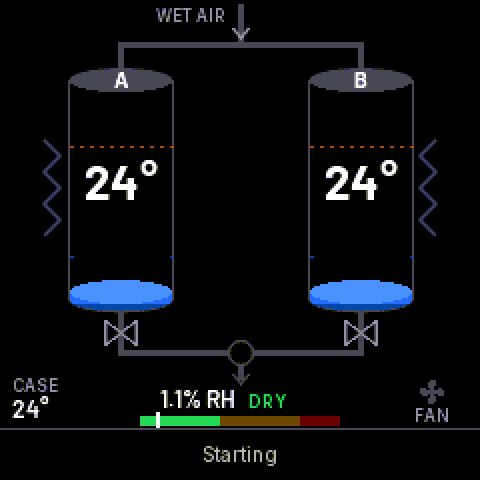
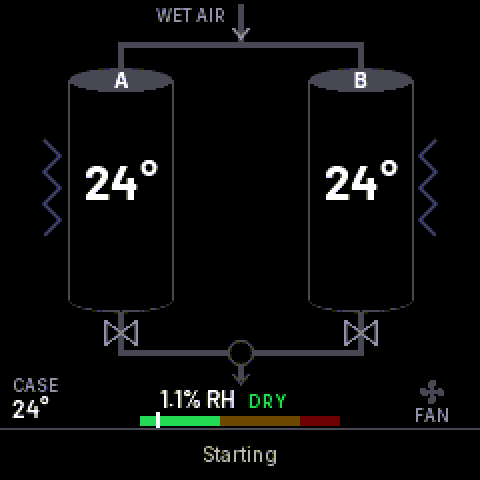
Colour the display cylinders by pack state
Each cylinder body is one solid colour for its state: IN USE green,
WET pink, HEATING orange, COOLING cyan, READY blue, FAULT red; unfilled
when off or starting. Removes the temperature fill, threshold dashes,
cap sprites and fault ring, and the three thresholds only they read.
Scenario captures regenerated.

Changed region(s): [[0.625, 0.5625, 0.875, 0.6562], [0.125, 0.5625, 0.375, 0.6562]]

diff --git a/esphome/packages/display_ui.h b/esphome/packages/display_ui.h
@@ -4,7 +4,8 @@
 // of the host build (packages/display-sdl.yaml) and the scenario captures
 // (packages/display-scenarios.yaml). The ui_draw script in
 // packages/display-draw.yaml gathers the state. Geometry and rules follow
-// docs/superpowers/specs/2026-09-14-display-ui-design.md sections 2, 4, 5.
+// docs/superpowers/specs/2026-09-14-display-ui-design.md sections 2, 4, 5,
+// with the cylinder colours of 2026-09-14-cylinder-state-colours-design.md.
 #include <cmath>
 #include <cstdint>
 #include <cstdio>
@@ -27,7 +28,7 @@ struct UiState {
   bool enabled = true, sim = false, fan = false;
   bool heater_a = false, heater_b = false, valve_a = false, valve_b = false;
   float t_a = NAN, t_b = NAN, t_case = NAN, rh = NAN;
-  float arm_rh = 5, swap_rh = 10, cooldown = 40, regen = 90, overtemp = 120;
+  float arm_rh = 5, swap_rh = 10;
   float service_s = 0, standby_s = 0;
   std::string status, fault_msg, ip;
   uint32_t uptime_ms = 0;
@@ -36,8 +37,7 @@ struct UiState {
 // Aggregate-initialised by the ui_draw script; keep the member order in step.
 struct UiAssets {
   BaseFont *f_temp, *f_val, *f_cap, *f_label, *f_phase, *f_status, *f_status_b;
-  BaseImage *bg, *valve_open, *valve_closed, *heater_on_a, *heater_on_b, *lit_a, *lit_b, *fault_ring,
-      *cap_blue, *cap_amber, *cap_gold, *fan;
+  BaseImage *bg, *valve_open, *valve_closed, *heater_on_a, *heater_on_b, *lit_a, *lit_b, *fan;
 };
 
 // The most recently gathered state and asset table. The ui_draw script fills
@@ -60,11 +60,11 @@ inline uint32_t uptime_since_first_frame(uint32_t now) {
   return now - first;
 }
 
-// RGB 3-3-2 grid colours (spec section 5).
+// RGB 3-3-2 grid colours (display UI spec section 5; cylinder colours spec
+// section 1).
 static const Color BLACK(0, 0, 0), WHITE(255, 255, 255);
-static const Color GREEN(36, 219, 85), ORANGE(255, 146, 0), AMBER(255, 182, 0), ORANGE_MID(255, 109, 0);
-static const Color DEEP(219, 73, 0), DARKOR(182, 73, 0), CYAN(0, 219, 255);
-static const Color BLUE(36, 109, 255), BLUE_L(73, 146, 255), BLUE_D(0, 73, 170);
+static const Color GREEN(36, 219, 85), ORANGE(255, 146, 0), AMBER(255, 182, 0), CYAN(0, 219, 255);
+static const Color BLUE(36, 109, 255), PINK(255, 146, 170);
 static const Color SHELL(73, 73, 85), DIM(146, 146, 170), STRIP_TXT(182, 182, 170);
 static const Color RED_STRIP(219, 36, 36), RED(255, 36, 36);
 static const Color DRY_DIM(36, 109, 36), AMBER_DIM(109, 73, 0), RED_DIM(109, 0, 0);
@@ -78,10 +78,10 @@ struct PackView {
   int cx = 0;
   float t = NAN;
   const char *phase = "";
-  Color phase_color = DIM;
+  Color phase_color = DIM;  // also the body colour when filled
+  bool filled = false;      // body painted in phase_color; false when off or starting
   bool show_timer = false;
   float timer_s = 0;
-  bool faulted = false;
 };
 
 inline std::string fmt_timer(float seconds) {
@@ -104,22 +104,9 @@ inline void rounded_rect(Display &it, int x, int y, int w, int h, int r, Color c
   it.filled_circle(x + w - 1 - r, y + h - 1 - r, r, c);
 }
 
-// 2 px on, 3 px off, from x0 to x1 exclusive.
-inline void dashes(Display &it, int x0, int x1, int y, Color c) {
-  for (int x = x0; x < x1; x += 5) it.horizontal_line(x, y, 2, c);
-}
-
-// Row of the fill's top edge: 20 C .. overtemp maps onto the 110 px body.
-inline int level_y(float t, float overtemp) {
-  float f = (t - 20.0f) / (overtemp - 20.0f);
-  if (f < 0) f = 0;
-  if (f > 1) f = 1;
-  return 150 - (int) lroundf(f * 110.0f);
-}
-
 inline void pack_roles(const UiState &s, PackView &a, PackView &b) {
   static const char *const SB_NAMES[] = {"WET", "HEATING", "COOLING", "READY"};
-  static const Color SB_COLORS[] = {DIM, ORANGE, CYAN, BLUE};
+  static const Color SB_COLORS[] = {PINK, ORANGE, CYAN, BLUE};
   a = PackView{};
   b = PackView{};
   a.cx = CX_A;
@@ -133,63 +120,34 @@ inline void pack_roles(const UiState &s, PackView &a, PackView &b) {
   if (s.active != 1 && s.active != 2) return;  // starting: no roles yet
   PackView &act = s.active == 1 ? a : b;
   PackView &sb = s.active == 1 ? b : a;
-  act.phase = "IN SERVICE";
+  act.phase = "IN USE";
   act.phase_color = GREEN;
+  act.filled = true;
   act.show_timer = true;
   act.timer_s = s.service_s;
   int st = s.standby_state;
   if (st < 0 || st > 3) st = 0;
   sb.phase = SB_NAMES[st];
   sb.phase_color = SB_COLORS[st];
+  sb.filled = true;
   sb.show_timer = true;
   sb.timer_s = s.standby_s;
   PackView *faulted = s.fault_code == 1 ? &act : (s.fault_code == 2 || s.fault_code == 3) ? &sb : nullptr;
   if (faulted != nullptr) {
     faulted->phase = "FAULT";
     faulted->phase_color = RED;
-    faulted->faulted = true;
   }
 }
 
-// Stacked colour bands from the level down to row 156, then the cap sprite
-// on the level. Drawn before the background, whose opaque corners mask the
-// bands outside the bottom cap curve. Blue family at or below cooldown,
-// orange above, with an amber top band and gold cap at or above regen.
-inline void draw_fill(Display &it, const UiAssets &a, const UiState &s, const PackView &p) {
-  if (std::isnan(p.t)) return;
-  const int x0 = p.cx - 25;
-  const int top = level_y(p.t, s.overtemp);
-  Color bands[4];
-  int n = 0;
-  BaseImage *cap;
-  if (p.t <= s.cooldown) {
-    bands[n++] = BLUE;
-    bands[n++] = BLUE_D;
-    cap = a.cap_blue;
-  } else {
-    if (p.t >= s.regen) bands[n++] = AMBER;
-    bands[n++] = ORANGE;
-    bands[n++] = ORANGE_MID;
-    bands[n++] = DEEP;
-    cap = p.t >= s.regen ? a.cap_gold : a.cap_amber;
-  }
-  int h = (156 - top) / n;
-  if (h < 6) h = 6;
-  int y = top;
-  for (int i = 0; i < n; i++) {
-    const int hh = (i == n - 1) ? 156 - y : h;
-    if (hh > 0) it.filled_rectangle(x0, y, 51, hh, bands[i]);
-    y += h;
-  }
-  it.image(x0, top - 6, cap);
+// The body in its state colour: one rectangle over the cylinder interior,
+// drawn before the background, which keeps its grey top cap over row 40 and
+// masks everything outside the bottom cap curve down to row 156.
+inline void draw_fill(Display &it, const PackView &p) {
+  if (p.filled) it.filled_rectangle(p.cx - 25, 40, 51, 116, p.phase_color);
 }
 
-// Threshold dashes, the black plate, temperature, phase word and timer.
-inline void draw_pack_text(Display &it, const UiAssets &a, const UiState &s, const PackView &p) {
-  const int x0 = p.cx - 25, x1 = p.cx + 26;
-  dashes(it, x0, x1, level_y(s.regen, s.overtemp), DARKOR);
-  const bool cool = std::isnan(p.t) || p.t <= s.cooldown;
-  dashes(it, x0, x1, level_y(s.cooldown, s.overtemp), cool ? BLUE_D : BLUE_L);
+// The black plate, temperature, phase word and timer.
+inline void draw_pack_text(Display &it, const UiAssets &a, const PackView &p) {
   rounded_rect(it, p.cx - 23, 78, 47, 52, 4, BLACK);
   if (std::isnan(p.t))
     it.print(p.cx, 100, a.f_temp, DIM, TextAlign::BASELINE_CENTER, "--°");
@@ -279,8 +237,8 @@ inline void draw_ui(Display &it, const UiState &s, const UiAssets &a) {
   it.fill(BLACK);
   PackView pa, pb;
   pack_roles(s, pa, pb);
-  draw_fill(it, a, s, pa);
-  draw_fill(it, a, s, pb);
+  draw_fill(it, pa);
+  draw_fill(it, pb);
   it.image(0, 0, a.bg);
   // Symbols follow the real output switches, not the state machine.
   if (s.valve_a)
@@ -291,12 +249,10 @@ inline void draw_ui(Display &it, const UiState &s, const UiAssets &a) {
   it.image(CX_B - 9, 158, s.valve_b ? a.valve_open : a.valve_closed);
   if (s.heater_a) it.image(17, 65, a.heater_on_a);
   if (s.heater_b) it.image(207, 65, a.heater_on_b);
-  if (pa.faulted) it.image(CX_A - 28, 34, a.fault_ring);
-  if (pb.faulted) it.image(CX_B - 28, 34, a.fault_ring);
   it.print(CX_A, 44, a.f_cap, WHITE, TextAlign::BASELINE_CENTER, "A", SHELL);
   it.print(CX_B, 44, a.f_cap, WHITE, TextAlign::BASELINE_CENTER, "B", SHELL);
-  draw_pack_text(it, a, s, pa);
-  draw_pack_text(it, a, s, pb);
+  draw_pack_text(it, a, pa);
+  draw_pack_text(it, a, pb);
   draw_gauge(it, a, s);
   draw_unit(it, a, s);
   it.image(209, 189, a.fan, s.fan ? GREEN : SHELL);
